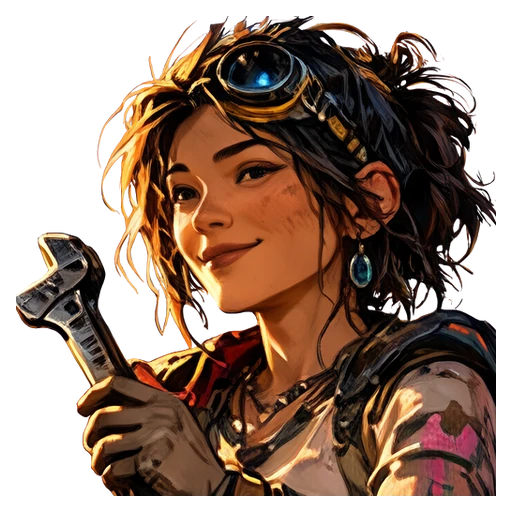
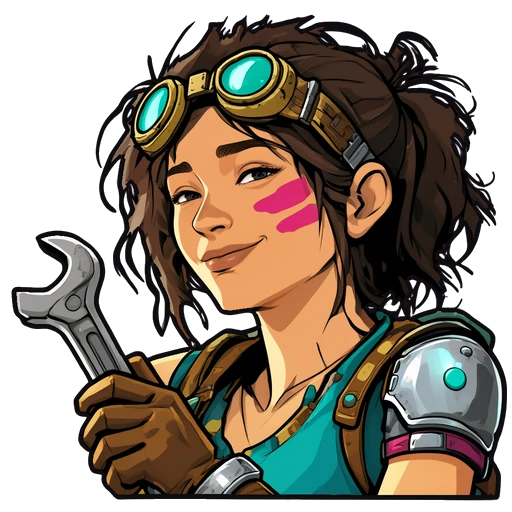
Journey cast and their portraits in the FAL-792 look (FAL-829)
Gear Mira, Dax, Noma and B0-LT idle + talk sheets and their 16 dialogue
portraits, redrawn in the approved ink-and-flat-colour look. Frame ids and
anims unchanged; x, y, w, h, ox, oy re-measured. Frames sit on the 16 px
WebP block grid so idle and talk decode identically outside the arm.

diff --git a/assets/journey/README.md b/assets/journey/README.md
@@ -111,10 +111,10 @@ move. Their dialogue portraits are in `assets/portraits/` (see its README).
 
 | File | Frames (w×h shipped px) | Anims (fps) | Anchors | Bytes |
 |---|---|---|---|---|
-| `cast/b0-lt.webp` + `b0-lt.json` | idle 44×220, talk 44×220 | idle [idle] (1), talk [idle, talk] (4, loop) | feet point | 12,004 |
-| `cast/dax.webp` + `dax.json` | idle 72×220, talk 72×220 | idle [idle] (1), talk [idle, talk] (4, loop) | feet point | 12,258 |
-| `cast/gear-mira.webp` + `gear-mira.json` | idle 62×220, talk 62×220 | idle [idle] (1), talk [idle, talk] (4, loop) | feet point | 13,492 |
-| `cast/noma.webp` + `noma.json` | idle 74×220, talk 74×220 | idle [idle] (1), talk [idle, talk] (4, loop) | feet point | 14,582 |
+| `cast/b0-lt.webp` + `b0-lt.json` | idle 46×223, talk 46×223 | idle [idle] (1), talk [idle, talk] (4, loop) | feet point | 9,476 |
+| `cast/dax.webp` + `dax.json` | idle 76×223, talk 76×223 | idle [idle] (1), talk [idle, talk] (4, loop) | feet point | 10,882 |
+| `cast/gear-mira.webp` + `gear-mira.json` | idle 65×222, talk 65×222 | idle [idle] (1), talk [idle, talk] (4, loop) | feet point | 11,228 |
+| `cast/noma.webp` + `noma.json` | idle 77×221, talk 77×221 | idle [idle] (1), talk [idle, talk] (4, loop) | feet point | 12,250 |
 | `encounters/cell/backdrop.webp` | opaque 864×256 | static | strip origin (0, 0) | 25,926 |
 | `encounters/cell/bars.webp` + `.json` | shut 864×256, loose 864×256, open 864×256 | shut/loose/open, one frame each (1, once) | feet point | 360,974 |
 | `encounters/cell/guard.webp` + `.json` | idle 110×252, talk 110×252 | idle [idle] (1), talk [idle, talk] (4, loop) | feet point | 13,000 |
@@ -207,3 +207,10 @@ batch lands, that sheet is still in the painted style.
   arms are the same pixels). The mast-climber's mast is drawn on the CPU behind the rendered climber, at the old
   mast's width and positions: a slim pole and back rail in one steel grey with one shadow tone, and the boxes,
   panels and cable runs as closed, filled, inked shapes.
+- Batch 3, FAL-829: the journey cast (`cast/gear-mira`, `dax`, `noma`, `b0-lt`, idle and talk) and their 16
+  dialogue portraits in `assets/portraits/`. Gear Mira's idle is the accepted FAL-792 test frame. The other idles are
+  the old idles redrawn in the new look. Each talk is the new idle with only the raised arm redrawn (B0-LT's talk
+  changes only the screen, to a dark screen with an amber waveform). Frame ids, anims and the feet-point convention
+  are unchanged; only `x`, `y`, `w`, `h`, `ox`, `oy` were re-measured (heights 220 → 221-223 px). The frames sit on the 16 px WebP block grid (`x` = 0, 64-96), so idle and talk decode to the same pixels outside the arm. The look is
+  louder than the painted cast: Dax wears a brown hat with teal goggles instead of the cap, and Noma's tunic is
+  bright teal with a magenta sash. B0-LT is chrome grey with a teal chest plate.

diff --git a/assets/portraits/README.md b/assets/portraits/README.md
@@ -4,21 +4,23 @@
 
 Local Qwen Image 2.1 reference edits. Humans lock to the canonical roster. B0-LT uses the selected asymmetric factory-frame design with an amber monitor and crown tag. Screen tearing is a still; code supplies any flicker.
 
+**New look (FAL-829, batch 3 of FAL-792):** all 16 portraits are redrawn in the FAL-792 ink-and-flat-colour look, in the same costume and colours as each character's new journey sheet (`assets/journey/cast/`). Framing, size, facing and the neutral-keeps-the-alpha rule are unchanged. The human moods are the neutral with only the face redrawn. B0-LT's moods change only the screen: a cream smile (pleased), an amber waveform (talk) and torn bars (glitch).
+
 | File | Bytes | Facing |
 |---|---:|---|
-| `gear-mira-neutral.webp` | 98,704 | left |
-| `gear-mira-talk.webp` | 98,674 | left |
-| `gear-mira-pleased.webp` | 98,526 | left |
-| `gear-mira-worried.webp` | 98,866 | left |
-| `dax-neutral.webp` | 61,932 | left |
-| `dax-talk.webp` | 62,022 | left |
-| `dax-pleased.webp` | 61,708 | left |
-| `dax-worried.webp` | 61,930 | left |
-| `noma-neutral.webp` | 79,310 | left |
-| `noma-talk.webp` | 79,656 | left |
-| `noma-pleased.webp` | 79,462 | left |
-| `noma-worried.webp` | 79,324 | left |
-| `b0-lt-neutral.webp` | 60,756 | left |
-| `b0-lt-talk.webp` | 59,958 | left |
-| `b0-lt-pleased.webp` | 60,656 | left |
-| `b0-lt-glitch.webp` | 62,766 | left |
+| `gear-mira-neutral.webp` | 65,470 | left |
+| `gear-mira-talk.webp` | 66,158 | left |
+| `gear-mira-pleased.webp` | 65,584 | left |
+| `gear-mira-worried.webp` | 65,998 | left |
+| `dax-neutral.webp` | 47,736 | left |
+| `dax-talk.webp` | 47,360 | left |
+| `dax-pleased.webp` | 47,240 | left |
+| `dax-worried.webp` | 47,228 | left |
+| `noma-neutral.webp` | 52,178 | left |
+| `noma-talk.webp` | 52,662 | left |
+| `noma-pleased.webp` | 52,142 | left |
+| `noma-worried.webp` | 51,916 | left |
+| `b0-lt-neutral.webp` | 39,436 | left |
+| `b0-lt-talk.webp` | 40,874 | left |
+| `b0-lt-pleased.webp` | 41,168 | left |
+| `b0-lt-glitch.webp` | 41,234 | left |
